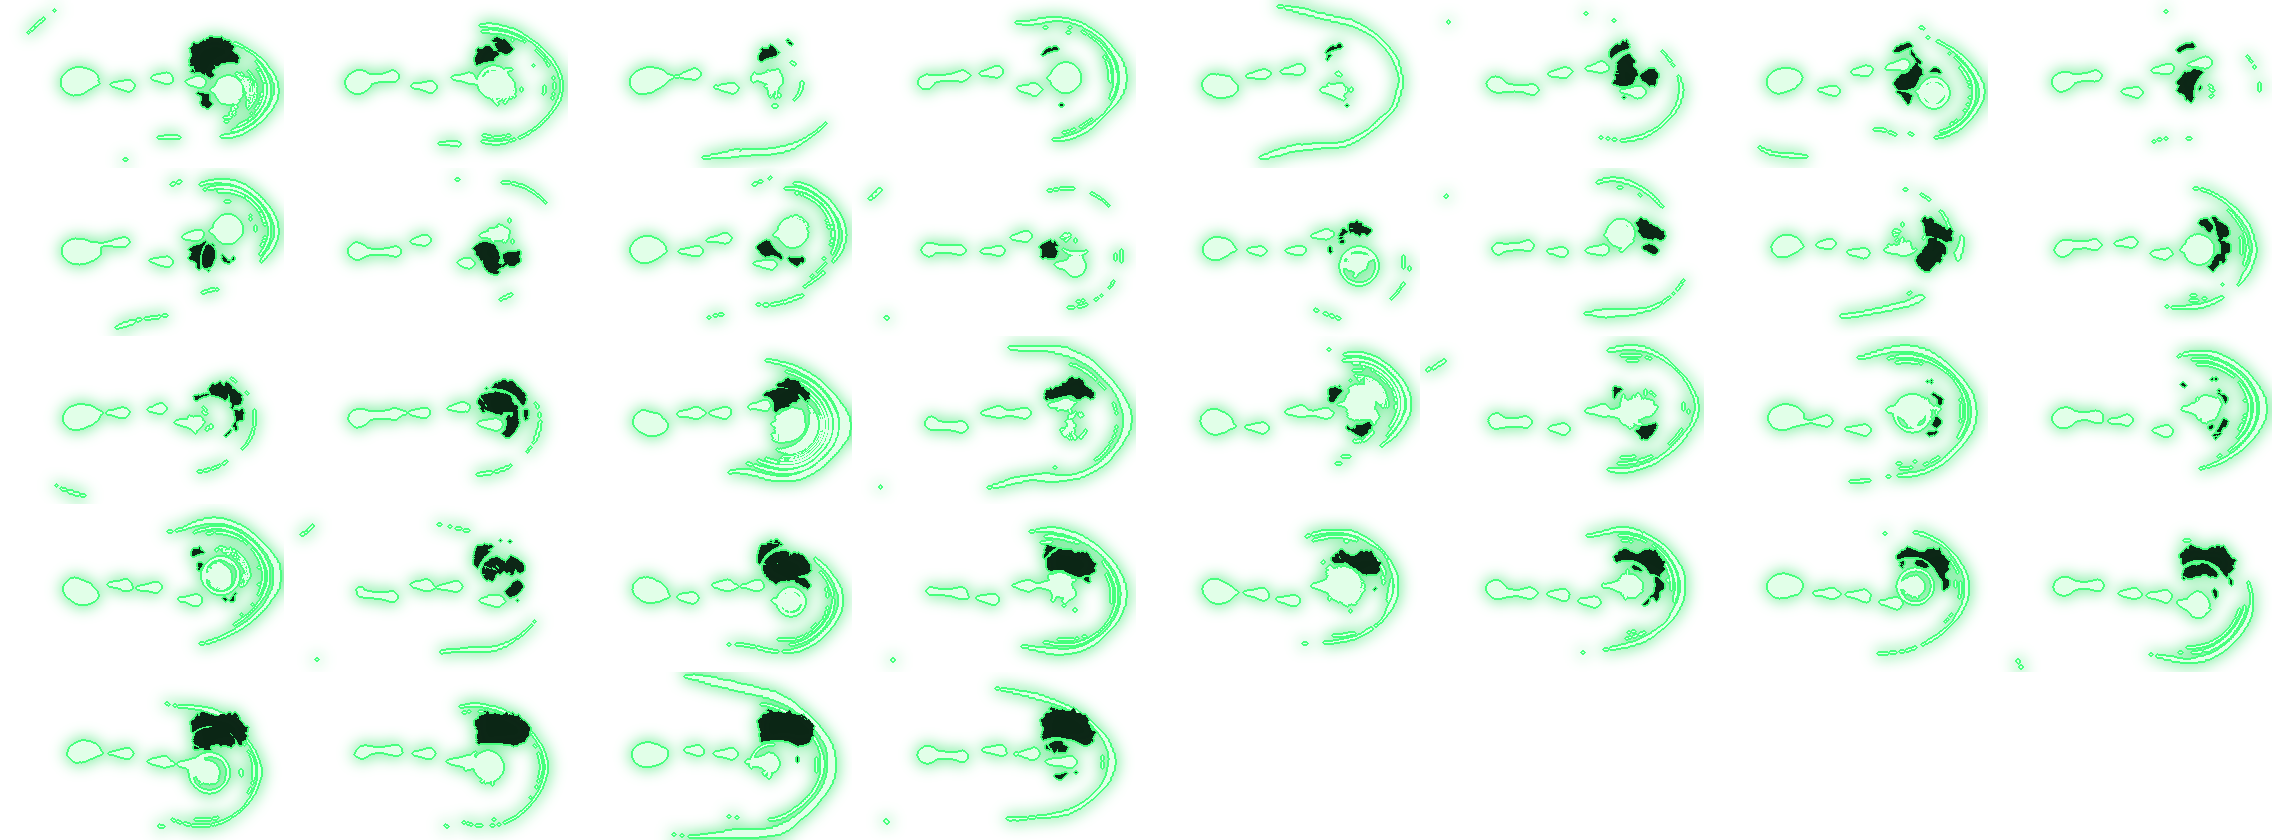
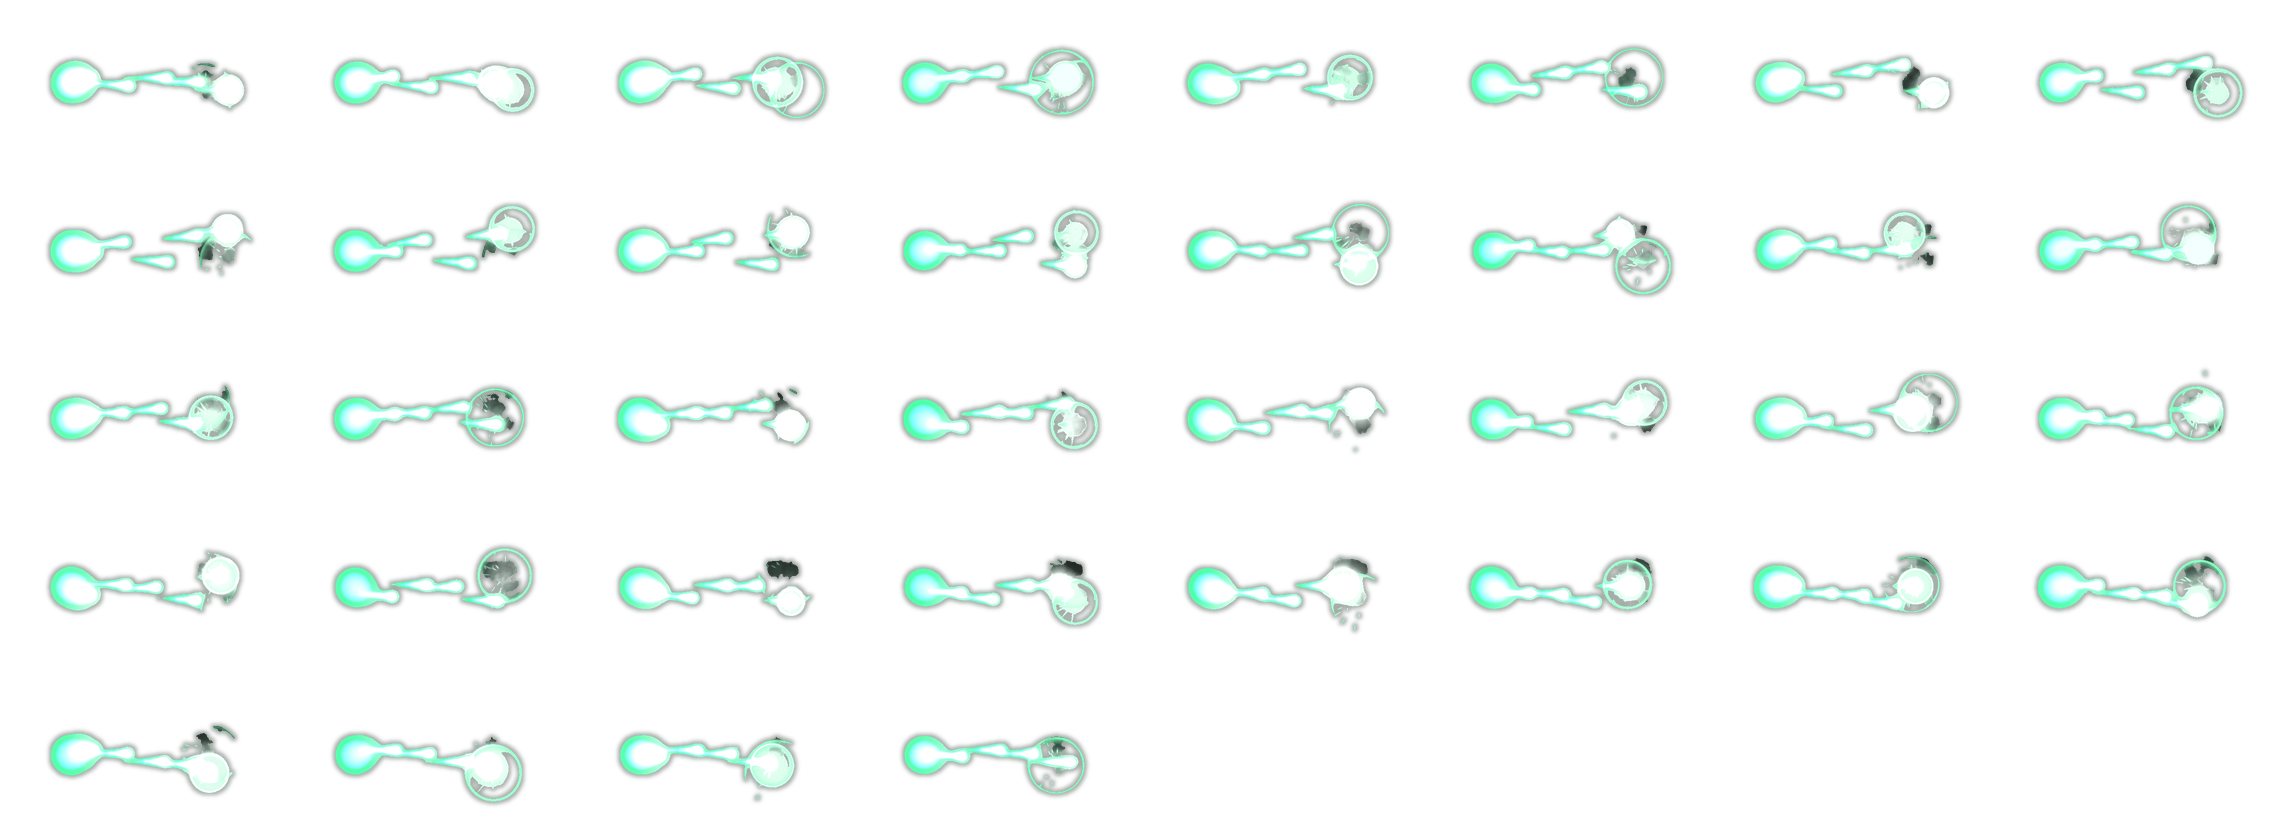
Archer E: green bolt from the owner's clean GIF (real glow) instead of the banded sheet
Claude-Session: https://claude.ai/code/session_01TXxUxQNkVyKsqGN7cZdxAu

diff --git a/action.html b/action.html
@@ -2364,7 +2364,7 @@ function drawTick(p, dt, q) {                 // the charged shot: three levels 
 }
 function javelin(x, y) {                       // E: the owner's green bolt sheet ("สกิลนี้แทน สายฟ้า"): an orb at her bow shoots a bolt that bursts on the spot
   const p = G.p, bx = p.x, by = p.y - 46, tx = x, ty = y - 26, d = Math.hypot(tx - bx, ty - by) || 1, GB = PFX.pfx_gbolt_k && PFX.pfx_gbolt_k.m;
-  if (GB) pfx('pfx_gbolt_k', tx, ty, {rot: Math.atan2(ty - by, tx - bx) || 1e-4, sc: clamp(d / 148, .7, 1.7), life: 22 / 30});   // anchor = the burst; the orb sits back toward her
+  if (GB) pfx('pfx_gbolt_k', tx, ty, {rot: Math.atan2(ty - by, tx - bx) || 1e-4, sc: clamp(d / 175, .7, 1.7)});   // anchor = the burst; the orb sits back toward her
   else if (!pfx('pfx_skyarrow_k', x, y + 4) && !pfx('pfx_skyarrow_g', x, y + 4)) pfx('pfx_skyarrow', x, y + 4);
   G.later.push({t: GB ? .12 : .43, fn: () => { const S = ARS[2];
     for (const m of G.mobs) if (m.hp > 0 && Math.hypot(m.x - x, (m.y - y) * 1.25) < S.r + m.r) { hitMob(m, S.dmg, x, y, 60, ACY.mid, true, true); m.stun = Math.max(m.stun || 0, G.t + .5); }

diff --git a/tools/art/green_bolt_gif.py b/tools/art/green_bolt_gif.py
@@ -1,0 +1,17 @@
+# Archer E from the owner's green bolt GIF (2026-11-09, 568x336, 36 frames at 30 ms, see-through, real soft glow; better than
+# the pasted sheet whose glow came flattened into bands). Frames as they are, half size, plus a soft dark rim so it reads on grass.
+#   python3 tools/art/green_bolt_gif.py  -> fx/pfx_gbolt_k.png + manifest (anchor = the burst on the right; the orb sits ~150 px left at full size)
+import json
+from PIL import Image, ImageSequence, ImageFilter
+SRC, KEY, K = 'art/incoming/pfx/green-bolt.gif', 'pfx_gbolt_k', .5
+fr = [f.convert('RGBA') for f in ImageSequence.Iterator(Image.open(SRC))]
+w, h = round(fr[0].width * K), round(fr[0].height * K); out = Image.new('RGBA', (8 * w, -(-len(fr) // 8) * h))
+for i, f in enumerate(fr):
+    f = f.resize((w, h), Image.LANCZOS)
+    a = f.split()[3].point(lambda v: 255 if v > 60 else 0).filter(ImageFilter.MaxFilter(5)).filter(ImageFilter.GaussianBlur(2)).point(lambda v: v * .35)
+    rim = Image.new('RGBA', (w, h), (2, 18, 8, 0)); rim.putalpha(a); rim.alpha_composite(f)
+    out.alpha_composite(rim, (i % 8 * w, i // 8 * h))
+out.save('fx/' + KEY + '.png', optimize=True)
+man = json.load(open('fx/manifest.json'))
+man[KEY] = {'w': w, 'h': h, 'n': len(fr), 'cols': 8, 'fps': 30, 'ax': 228, 'ay': 89, 'src': "owner's green bolt GIF (tools/art/green_bolt_gif.py)"}
+json.dump(man, open('fx/manifest.json', 'w'), separators=(',', ':')); print(KEY, out.size, w, h)

diff --git a/docs/action-game.md b/docs/action-game.md
@@ -368,7 +368,7 @@ phone) + attack + roll; about 8 skills per class to unlock up to level 50, the p
   near-white line on every cut edge, and GPT's antialias ring outside its own dark outline = an edge pixel 35+ lighter than
   the darkest pixel just inside it), the other sets in `tools/art/rebuild_props.py` (same clean, enclosed white only on
   nature + ruins; each item rebuilt at its current height). `prop_bgclean.py` is no longer needed.
-- **Archer E = the owner's green bolt** (2026-11-09 "สกิลนี้แทน สายฟ้า เปลี่ยนโทนสีด้วย"; pasted 6x6 sheet 3408x2016, glow flattened into cyan / green / white bands, raw `art/incoming/pfx/green-bolt-sheet.png`): `tools/art/green_bolt_fx.py` keeps the white-hot cores (orb, bolt, impact flash, not the big white patches at the cell edges) and the dark smoke, archer look (pale core + neon rim, ink smoke) → `fx/pfx_gbolt_k.png` (anchor = the burst, the orb ~148 px back). `javelin()` plays it turned from her bow to the spot (scale = distance / 148, .7–1.7), damage at .12 s. Renamed ลูกพลังเขียว.
+- **Archer E = the owner's green bolt** (2026-11-09 "สกิลนี้แทน สายฟ้า เปลี่ยนโทนสีด้วย"; pasted 6x6 sheet 3408x2016, glow flattened into cyan / green / white bands, raw `art/incoming/pfx/green-bolt-sheet.png`): `tools/art/green_bolt_fx.py` keeps the white-hot cores (orb, bolt, impact flash, not the big white patches at the cell edges) and the dark smoke, archer look (pale core + neon rim, ink smoke) → `fx/pfx_gbolt_k.png`; then the owner sent the same effect as a clean GIF (`art/incoming/pfx/green-bolt.gif`, see-through, real glow) → `tools/art/green_bolt_gif.py` (half size, soft dark rim) replaces it. `javelin()` plays it turned from her bow to the spot (scale = distance / 148, .7–1.7), damage at .12 s. Renamed ลูกพลังเขียว.
 - **Star rain = one pass, longer** (owner "สกิล4 คือฝนดาวตก ทิศสกิลมันแปลก ... ให้มันมารอบเดียวแต่ยาวขึ้น"; the owner counts the star rain as skill 4 — I first changed the leap back by mistake, undone): one copy of `pfx_starfall_c_k` (the mirrored second copy made the streaks fall two ways), played at `SF.fps` 18 instead of 30 (~3.5 s), the 10 ticks spread over the landing part, the closing blast at the end.
 - **Archer F bomb blast in neon green** (owner 2026-11-09 "สกิล4 นักธนู เปลี่ยนสีเขียวนีออน"): `fx_tint.py pfx_bombarrow pfx_bombarrow_g 021208,0a3a16,1fbf4a,46ff7d,d8ffe0` (the black + neon `archer_fx` copy turned the fireball into a flat blob), dark rim via `PRIM`, ring / hit colour / fuse spark `ACK.neon`.
 - **Swordsman red slashes** (owner's zip 2026-11-09 "Pixel Art Animations - Warrior FREE" by Frostwindz, itch.io; licence: use in
